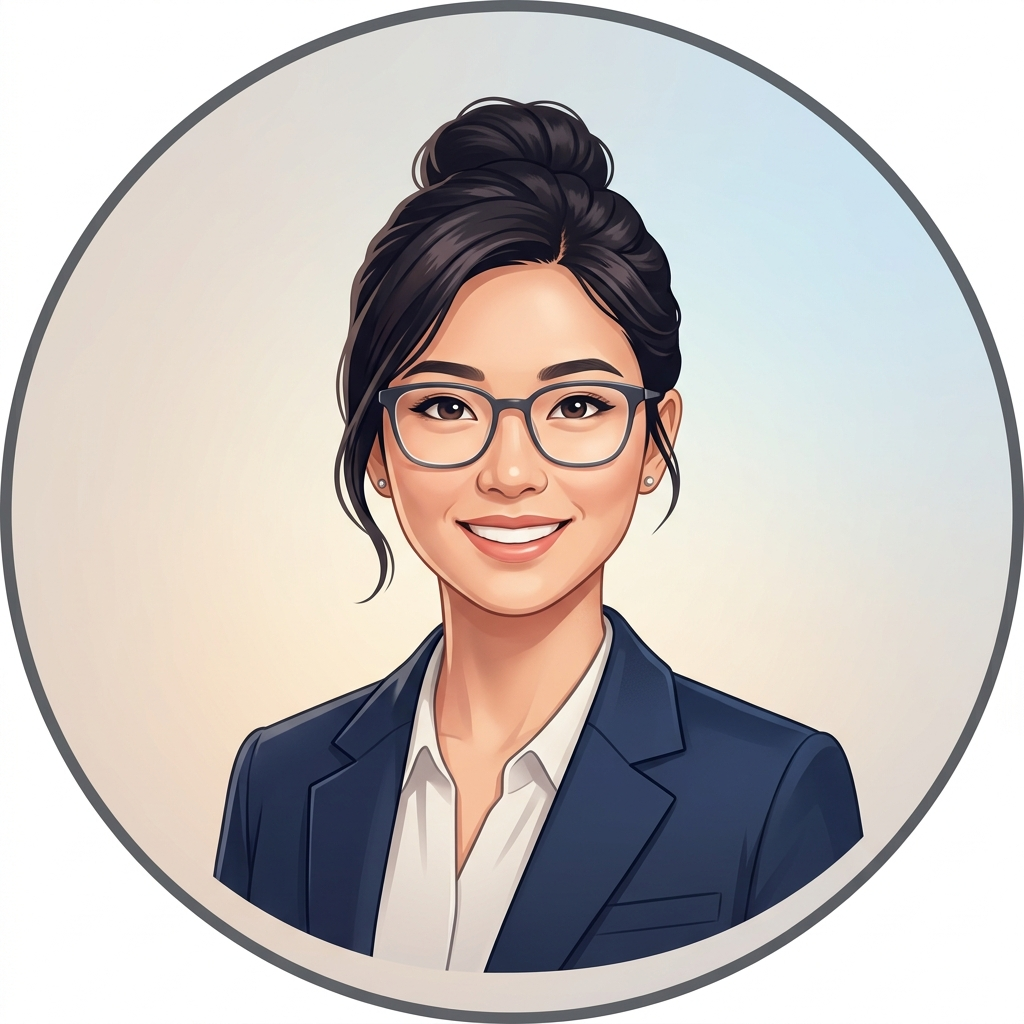
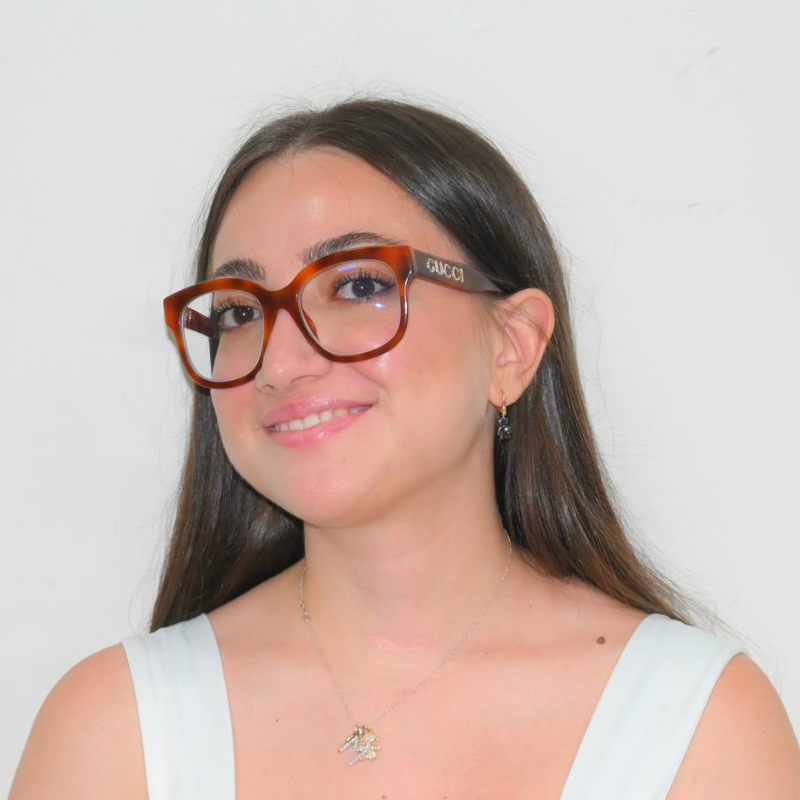
Aggiornamento foto reale, email istituzionale, dottorato in e-Health e biografia

diff --git a/index.html b/index.html
@@ -8,15 +8,15 @@
     <meta charset="UTF-8">
     <meta http-equiv="X-UA-Compatible" content="IE=edge">
     <meta name="viewport" content="width=device-width, initial-scale=1">
-    <meta name="description" content="Maria Creanza is a Ph.D. student in Computer Science and Mathematics at the University of Bari Aldo Moro. Her research interests include Explainable AI (XAI), Fuzzy Systems, and Biomedical Speech Analysis.">
-    <meta name="keywords" content="Maria Creanza, CILAB, University of Bari, Explainable AI, XAI, Fuzzy Logic, Parkinson, Speech Analysis, Machine Learning">
+    <meta name="description" content="Maria Creanza is a Ph.D. student in Digital Innovation and e-Health at the University of Bari Aldo Moro. Her research focuses on Artificial Intelligence for Digital Mental Health, Multimodal Learning, and Explainable AI.">
+    <meta name="keywords" content="Maria Creanza, Digital Innovation and e-Health, CILAB, University of Bari, Digital Mental Health, Explainable AI, XAI, Multimodal Learning, Trustworthy AI, Speech Biomarkers">
     <meta name="author" content="Maria Creanza">
 
     <!-- Open Graph / Social Media -->
     <meta property="og:type" content="profile">
     <meta property="og:site_name" content="Maria Creanza">
     <meta property="og:title" content="Maria Creanza | University of Bari Aldo Moro">
-    <meta property="og:description" content="Ph.D. student in Computer Science and Mathematics. Researching Explainable AI, Fuzzy Systems, and Speech Biomarkers for Healthcare.">
+    <meta property="og:description" content="Ph.D. student in Digital Innovation and e-Health. Researching AI for Digital Mental Health, Multimodal Learning, and Explainable AI.">
     <meta property="og:image" content="./assets/img/avatar.png">
 
     <link rel="icon" href="./assets/img/favicon.png" type="image/png" />
@@ -78,7 +78,7 @@
         color: #20212b;
       }
       .edu-item {
-        margin-bottom: 14px;
+        margin-bottom: 18px;
       }
       .edu-year {
         font-size: 0.82rem;
@@ -91,6 +91,7 @@
       .edu-degree {
         font-weight: 600;
         color: #043361;
+        font-size: 0.98rem;
       }
       [data-theme="dark"] .edu-degree {
         color: #3eb7f0;
@@ -101,6 +102,13 @@
       }
       [data-theme="dark"] .edu-institution {
         color: #dadbdf;
+      }
+      .project-pillars {
+        margin: 10px 0 16px 15px;
+        padding-left: 10px;
+      }
+      .project-pillars li {
+        margin-bottom: 8px;
       }
     </style>
   </head>
@@ -114,12 +122,14 @@
 
         <h1>Maria Creanza</h1>
 
-        <div style="font-size: 1.05rem; font-weight: 500; margin-top: -6px; margin-bottom: 4px;">Ph.D. Student</div>
+        <div style="font-size: 1.05rem; font-weight: 500; margin-top: -6px; margin-bottom: 4px;">
+          Ph.D. Student in Digital Innovation &amp; e-Health
+        </div>
         <a href="https://www.uniba.it/" target="_blank" rel="noopener">
           <autocolor>University of Bari Aldo Moro</autocolor>
         </a>
         <br>
-        <a href="mailto:maria.creanza@uniba.it" class="email">maria.creanza@uniba.it</a>
+        <a href="mailto:m.creanza6@phd.uniba.it" class="email">m.creanza6@phd.uniba.it</a>
 
         <br><br>
         <div class="social-icons">
@@ -159,25 +169,41 @@
           <h2 id="about-me">About me</h2>
 
           <p>
-            I am a Ph.D. student in Computer Science and Mathematics at the 
+            I am a Ph.D. student in <strong>Digital Innovation and e-Health</strong> at the 
+            <a href="https://www.uniba.it/" target="_blank" rel="noopener">University of Bari Aldo Moro</a>, affiliated with the 
             <a href="https://cilab.di.uniba.it/" target="_blank" rel="noopener">Computational Intelligence Laboratory (CILAB)</a>, 
-            Department of Computer Science, 
-            <a href="https://www.uniba.it/" target="_blank" rel="noopener">University of Bari Aldo Moro</a>.
+            Department of Computer Science.
           </p>
 
           <p>
-            My research lies at the intersection of <strong>Explainable Artificial Intelligence (XAI)</strong>, 
-            <strong>Computational Intelligence</strong>, and <strong>Healthcare / Digital Medicine</strong>. 
-            In particular, I investigate how fuzzy logic and linguistic representations can render 
-            unsupervised acoustic models transparent and clinically interpretable for speech analysis in 
-            patients affected by neurodegenerative disorders, such as Parkinson's disease.
+            Clinical assessment in mental health still relies predominantly on episodic evaluations and standardized psychometric questionnaires, offering only a partial snapshot of an individual's condition. <strong>Digital Mental Health (DMH)</strong> opens new avenues for continuous, non-invasive monitoring through wearable devices and digital technologies capable of acquiring physiological, behavioral, acoustic, and contextual biomarkers.
+          </p>
+
+          <p>
+            My doctoral research focuses on developing advanced <strong>Artificial Intelligence methodologies for Digital Mental Health</strong>, addressing the critical challenges that hinder clinical adoption through three primary directions:
+          </p>
+
+          <ol class="project-pillars">
+            <li>
+              <strong>Learning under Limited Labeled Data:</strong> benchmarking and developing modern learning paradigms such as <em>self-supervised learning</em>, <em>semi-supervised learning</em>, <em>transfer learning</em>, and <em>foundation models</em> to overcome clinical data scarcity.
+            </li>
+            <li>
+              <strong>Multimodal Learning and Data Fusion:</strong> analyzing the individual predictive power of distinct data modalities (physiological, acoustic, behavioral, contextual) and investigating optimal multimodal fusion strategies.
+            </li>
+            <li>
+              <strong>Explainable and Trustworthy AI (XAI):</strong> conducting comparative evaluations of post-hoc explainability methods and intrinsically interpretable models (such as fuzzy linguistic representations), coupled with human-centered evaluations actively involving clinicians.
+            </li>
+          </ol>
+
+          <p>
+            The ultimate objective is to define a comprehensive methodological framework for designing reliable, robust, and transparent AI systems for continuous mental health monitoring, advancing their effective clinical translation.
           </p>
 
           <h2 id="research-interests">Research interests</h2>
           <ul>
-            <li><strong>Explainable AI (XAI):</strong> Fuzzy linguistic representations, interpretable machine learning, human-in-the-loop AI.</li>
-            <li><strong>Biomedical AI & Voice Analysis:</strong> Acoustic patterns, vocal biomarkers, clinical decision-support systems.</li>
-            <li><strong>Computational Intelligence:</strong> Fuzzy sets and systems, unsupervised clustering, pattern recognition.</li>
+            <li><strong>Digital Mental Health (DMH) &amp; e-Health:</strong> Continuous monitoring with wearable sensors, digital biomarkers, physiological and acoustic speech analysis.</li>
+            <li><strong>Explainable &amp; Trustworthy AI (XAI):</strong> Intrinsically interpretable models, post-hoc explanations, fuzzy linguistic representations, human-in-the-loop clinical evaluation.</li>
+            <li><strong>Multimodal Learning:</strong> Sensor fusion, multimodal representation learning, learning under limited supervision (self-supervised, semi-supervised, transfer learning, foundation models).</li>
           </ul>
         </div>
 
@@ -186,21 +212,28 @@
           <h2 id="news">News</h2>
           <div class="news-list" data-news-limit="5">
             <div class="news-item">
-              <span class="news-date">July 2026</span>
+              <span class="news-date">October 2026</span>
               <span>
-                Our paper <em>"Explaining Unsupervised Acoustic Patterns in Parkinson’s Patients’ Speech through Fuzzy Linguistic Representations"</em> 
-                has been accepted for presentation at <strong>AIPHEA 2026</strong> (organized in conjunction with <strong>IEEE WCCI 2026</strong>) in Maastricht, The Netherlands, and will appear in the <strong>CEUR Workshop Proceedings</strong>!
-                <span class="news-links">
-                  <a class="chip chip--web" href="https://aiphea2026.github.io/" target="_blank"><i class="fas fa-globe" aria-hidden="true"></i>Workshop</a>
-                  <a class="chip chip--pdf" href="#pub-parkinson"><i class="fas fa-file-alt" aria-hidden="true"></i>Details</a>
-                </span>
+                Awarded admission to the Ph.D. program in <strong>Digital Innovation and e-Health</strong> at the University of Bari Aldo Moro!
               </span>
             </div>
 
             <div class="news-item">
-              <span class="news-date">November 2025</span>
+              <span class="news-date">July 2026</span>
               <span>
-                Started my Ph.D. in Computer Science and Mathematics at the University of Bari Aldo Moro under the CILAB research group.
+                Graduated with an <strong>M.Sc. in Computer Science (Artificial Intelligence track)</strong> from the University of Bari Aldo Moro.
+              </span>
+            </div>
+
+            <div class="news-item">
+              <span class="news-date">July 2026</span>
+              <span>
+                Our paper <em>"Explaining Unsupervised Acoustic Patterns in Parkinson’s Patients’ Speech through Fuzzy Linguistic Representations"</em> 
+                has been accepted for presentation at <strong>AIPHEA 2026</strong> (co-located with <strong>IEEE WCCI 2026</strong>) in Maastricht, The Netherlands, and will appear in the <strong>CEUR Workshop Proceedings</strong>!
+                <span class="news-links">
+                  <a class="chip chip--web" href="https://aiphea2026.github.io/" target="_blank"><i class="fas fa-globe" aria-hidden="true"></i>Workshop</a>
+                  <a class="chip chip--pdf" href="#pub-parkinson"><i class="fas fa-file-alt" aria-hidden="true"></i>Details</a>
+                </span>
               </span>
             </div>
           </div>
@@ -255,19 +288,21 @@
           <h2 id="education" style="margin-top: 35px;">Education</h2>
           <div style="margin-left: 5px;">
             <div class="edu-item">
-              <div class="edu-degree">Ph.D. in Computer Science and Mathematics</div>
+              <div class="edu-degree">Ph.D. in Digital Innovation and e-Health</div>
               <div class="edu-institution">University of Bari Aldo Moro, Italy</div>
-              <div class="edu-year">2025 – Present</div>
+              <div class="edu-year">Nov 2026 – Present</div>
             </div>
 
             <div class="edu-item">
-              <div class="edu-degree">M.Sc. in Computer Science</div>
+              <div class="edu-degree">M.Sc. in Computer Science (Artificial Intelligence track)</div>
               <div class="edu-institution">University of Bari Aldo Moro, Italy</div>
+              <div class="edu-year">Graduated: July 2026</div>
             </div>
 
             <div class="edu-item">
-              <div class="edu-degree">B.Sc. in Computer Science</div>
+              <div class="edu-degree">B.Sc. in Computer Science and Software Technologies (ITPS)</div>
               <div class="edu-institution">University of Bari Aldo Moro, Italy</div>
+              <div class="edu-year">Informatica e Tecnologie per la Produzione del Software &bull; Graduated: October 2024</div>
             </div>
           </div>
 
